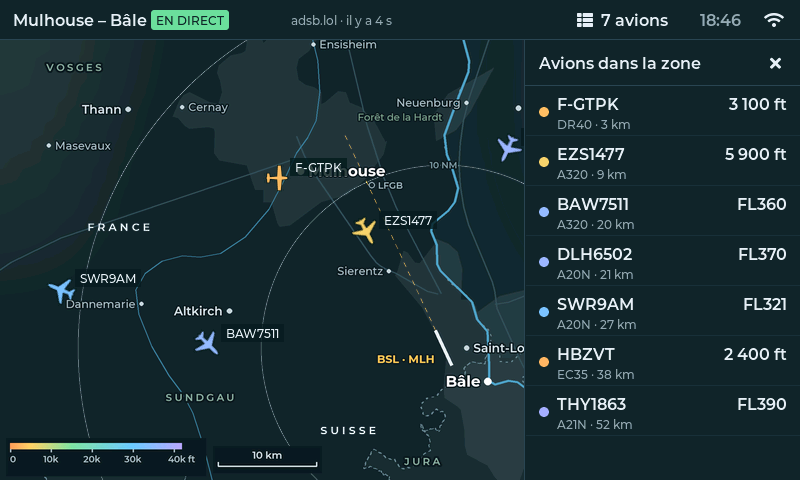
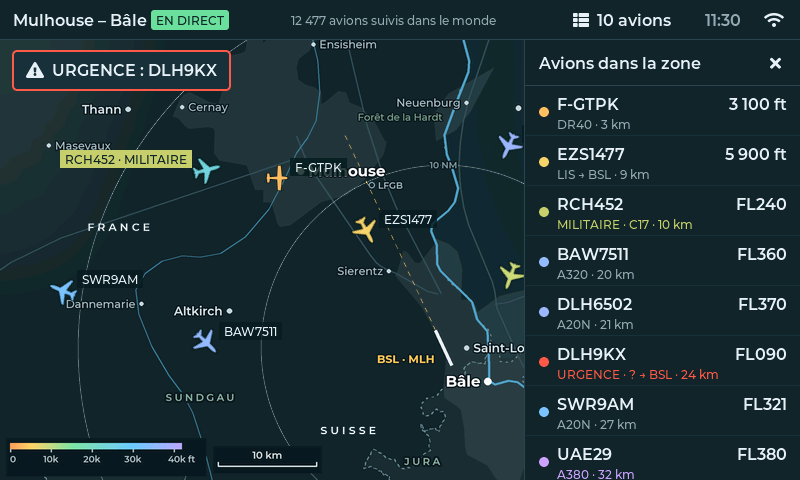
Docs: README features, fresh screenshots, release flashing
- README: routes, rare aircraft, worldwide count, settings, sleep mode and
  OTA updates; new simulator screenshots including the sleep-mode clock
- Quick start: flash the latest release on a new screen, publish a version
- firmware/README: OTA in main/, airport table tool, hexdb.io routes

diff --git a/README.md b/README.md
@@ -4,19 +4,23 @@ A 7″ touchscreen that sits on a desk, powered by a single USB-C cable, showing
 
 ![Map with live aircraft](docs/screenshots/map.png)
 
-- **Map**: the Mulhouse–Basel area (borders, Rhine, motorways, towns, EuroAirport), with aircraft rotated to their heading and coloured by altitude.
-- **Flight card**: tap an aircraft to see its route, altitude, ground speed, heading, vertical rate, registration and altitude profile.
+- **Map**: the Mulhouse–Basel area (borders, Rhine, motorways, towns, EuroAirport), with aircraft rotated to their heading and coloured by altitude. The top bar shows how many aircraft are tracked worldwide.
+- **Flight card**: tap an aircraft to see its route, altitude, ground speed, heading, vertical rate, registration and altitude profile. The selected aircraft gets a ring on the map, the others are dimmed.
+- **Routes**: from hexdb.io, checked against the aircraft's position and heading; departures from and arrivals to EuroAirport are read off the flight itself.
+- **Rare aircraft**: emergencies (7700, 7600, 7500), military aircraft and giants (A380, 747, An-124, Beluga…) get a coloured tag, and a banner when they enter the area.
 - **List**: every aircraft in the area, sorted by distance to Mulhouse.
-- **Wi-Fi**: pick a network and type the password on an on-screen AZERTY keyboard; both are remembered.
+- **Settings**: pick a Wi-Fi network and type the password on an on-screen AZERTY keyboard; check for updates; sleep mode.
+- **Sleep mode**: a big clock on black with the worldwide aircraft count; a tap goes back to the map.
+- **Over-the-air updates**: each version tag is built by GitHub Actions and published as a release; screens install it on their own at night.
 - **Enclosure**: 3D printed wedge tilted 18°, orange frame and black base.
 
 The on-screen interface is in French.
 
-| Flight card | List | Wi-Fi settings | Password |
-|---|---|---|---|
-| ![Flight card](docs/screenshots/flight-card.png) | ![List](docs/screenshots/list.png) | ![Wi-Fi](docs/screenshots/wifi.png) | ![Keyboard](docs/screenshots/keyboard.png) |
+| Flight card | List | Settings | Password | Sleep mode |
+|---|---|---|---|---|
+| ![Flight card](docs/screenshots/flight-card.png) | ![List](docs/screenshots/list.png) | ![Settings](docs/screenshots/wifi.png) | ![Keyboard](docs/screenshots/keyboard.png) | ![Sleep mode](docs/screenshots/saver.png) |
 
-Screenshots from the Mac simulator, with demo traffic. The firmware runs on the real board.
+Screenshots from the Mac simulator, with demo traffic (including a military C-17, an A380 and a 7700 emergency). The firmware runs on the real board.
 
 ## Hardware
 
@@ -44,12 +48,21 @@ cd firmware/sim && cmake -S . -B build -G Ninja && ninja -C build
 ./build/radar_sim --demo     # frozen demo traffic
 ```
 
-Firmware on the screen (needs ESP-IDF 5.4):
+Latest release on a new screen (plugged in on its "USB" port; the first time, hold BOOT while plugging in):
+
+```sh
+curl -LO https://github.com/OoscarFrank/viz-plane/releases/latest/download/radar-full.bin
+esptool.py --chip esp32s3 write_flash 0x0 radar-full.bin
+```
+
+Build and flash from source (needs ESP-IDF 5.4):
 
 ```sh
 . ~/esp/esp-idf/export.sh
 cd firmware && idf.py build && idf.py -p /dev/cu.usbmodem* flash monitor
 ```
+
+Publish a new version, installed by the screens on their own: `git tag v1.2.0 && git push origin v1.2.0`. Details in [`firmware/README.md`](firmware/README.md).
 
 Web prototype:
 
@@ -69,7 +82,7 @@ Three parts that print without supports: the frame in orange, the shell and the 
 
 ## Data
 
-ADS-B positions come from the free community networks [adsb.lol](https://adsb.lol), [adsb.fi](https://adsb.fi) and [airplanes.live](https://airplanes.live), falling back from one to the next and backing off automatically when rate limited. Routes are looked up by callsign through [adsbdb](https://www.adsbdb.com). Map data: Natural Earth, france-geojson, swiss-maps (FSO/swisstopo), deutschlandGeoJSON.
+ADS-B positions come from the free community networks [adsb.lol](https://adsb.lol), [adsb.fi](https://adsb.fi) and [airplanes.live](https://airplanes.live), falling back from one to the next and backing off automatically when rate limited. Routes are looked up by callsign through [hexdb.io](https://hexdb.io), with [adsbdb](https://www.adsbdb.com) for airline names and as a fallback; the worldwide count comes from the [adsb.fi](https://adsb.fi) stats. Map data: Natural Earth, france-geojson, swiss-maps (FSO/swisstopo), deutschlandGeoJSON.
 
 ## Third-party licences
 

diff --git a/firmware/README.md b/firmware/README.md
@@ -48,10 +48,10 @@ The mouse acts as a finger. In the simulator, any 8-character password "connects
 
 | Folder | Contents |
 |---|---|
-| `main/` | Startup, Waveshare board (RGB display, GT911 touch, CH422G), Wi-Fi, HTTPS, clock |
+| `main/` | Startup, Waveshare board (RGB display, GT911 touch, CH422G), Wi-Fi, HTTPS, clock, OTA updates (`ota.c`) |
 | `components/radar_app/` | LVGL UI, ADS-B and route data, base map, icons, fonts |
 | `sim/` | SDL2 simulator: Mac platform (pthreads, libcurl, fake Wi-Fi) |
-| `tools/` | `gen_assets.py` (map + icons), `gen_fonts.sh` (fonts with French accents) |
+| `tools/` | `gen_assets.py` (map + icons), `gen_fonts.sh` (fonts with French accents, clock digits), `gen_airports.py` (airport table) |
 
 ## Useful settings
 
@@ -64,4 +64,4 @@ The mouse acts as a finger. In the simulator, any 8-character password "connects
 - The CH422G pin EXIO5 selects USB (low) or CAN (high) on GPIO19/20: keep it low or the USB port disappears.
 - The factory demo leaves a Wi-Fi network ("WSCSBZY") in NVS; scans pause auto-reconnect so it does not block them.
 - Wi-Fi reception is weak with the module's PCB antenna: keep metal away from it in the enclosure.
-- Routes come from adsbdb by callsign and are often stale: a route is shown only if the aircraft lies on it and flies toward the destination. Routes of every aircraft in view are prefetched over kept-alive HTTPS connections.
+- Routes: adsbdb's are often stale, so hexdb.io comes first (adsbdb gives the airline name and is the fallback). ICAO codes are resolved with an embedded table of ~5000 airports. A route is shown only if the aircraft lies on it and flies toward the destination; EuroAirport departures and arrivals are read off the flight when the databases are wrong. Routes of every aircraft in view are prefetched over kept-alive HTTPS connections.
